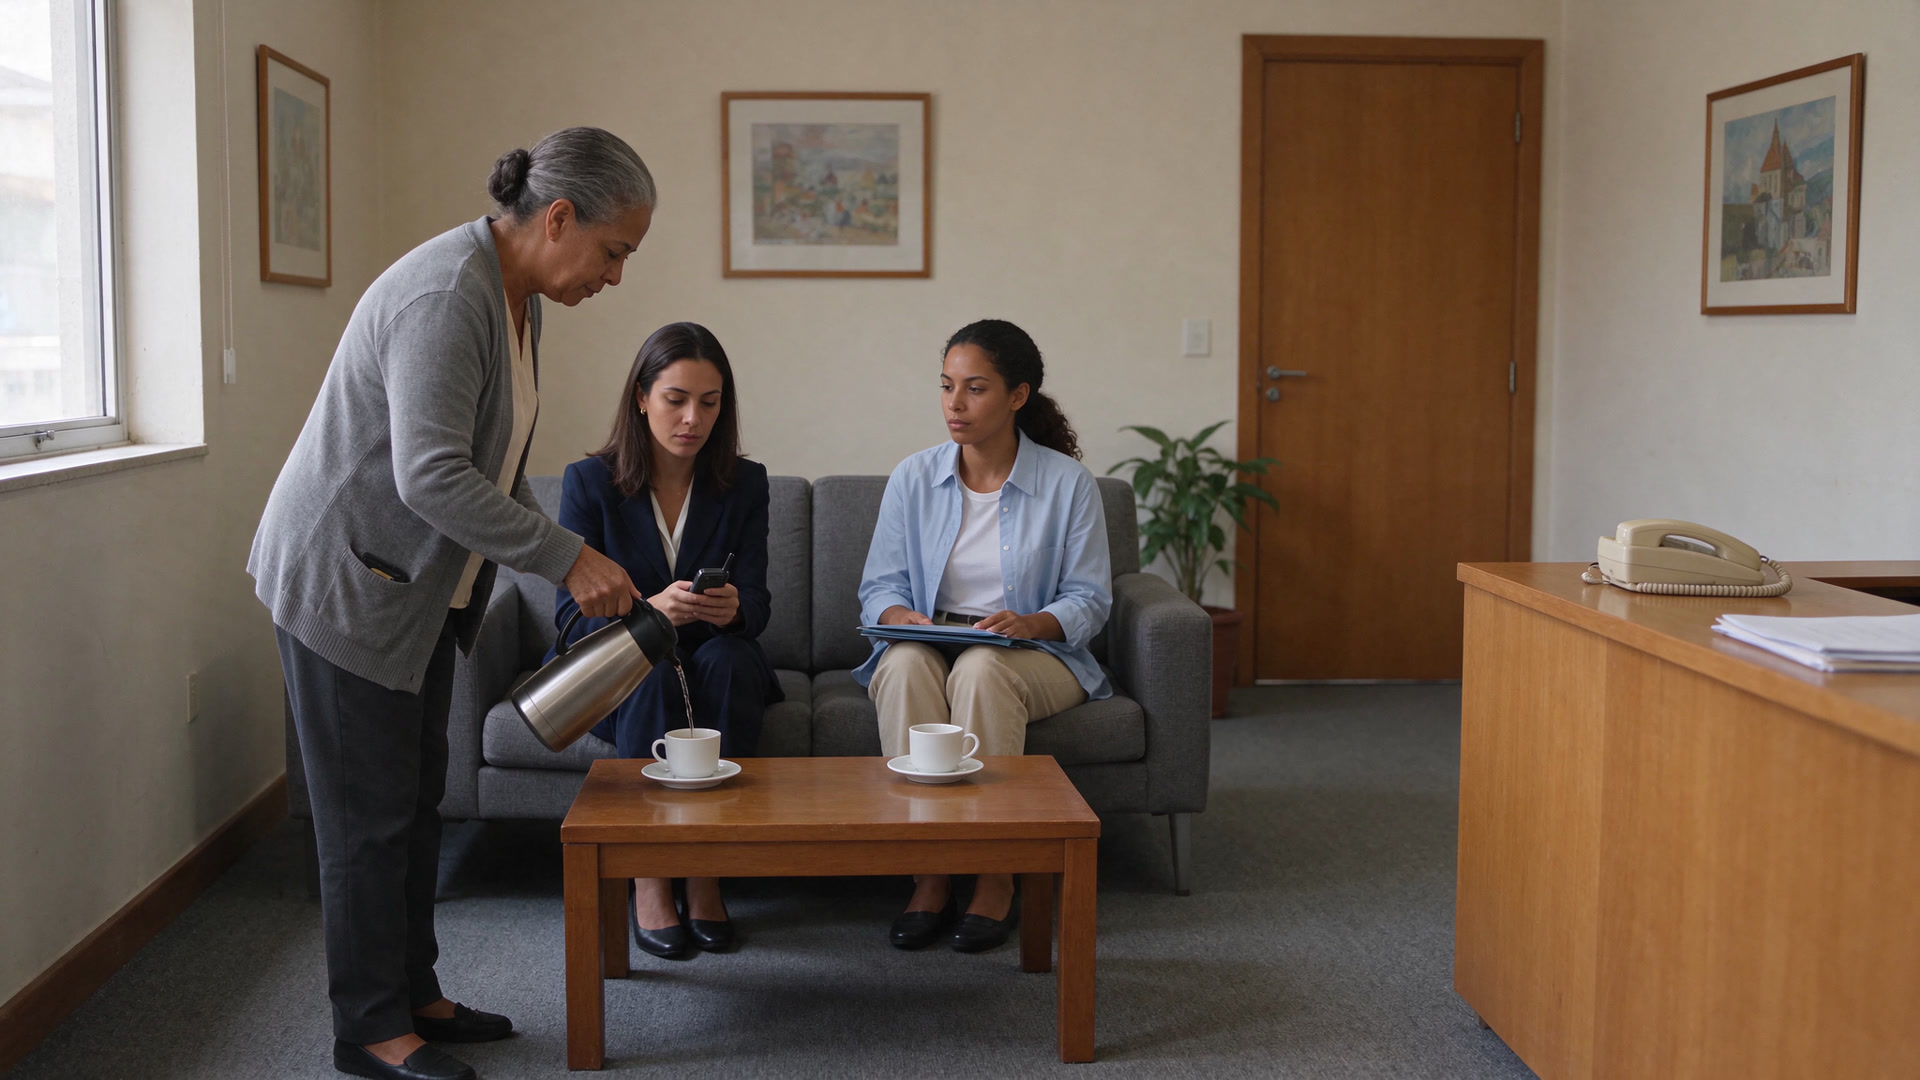
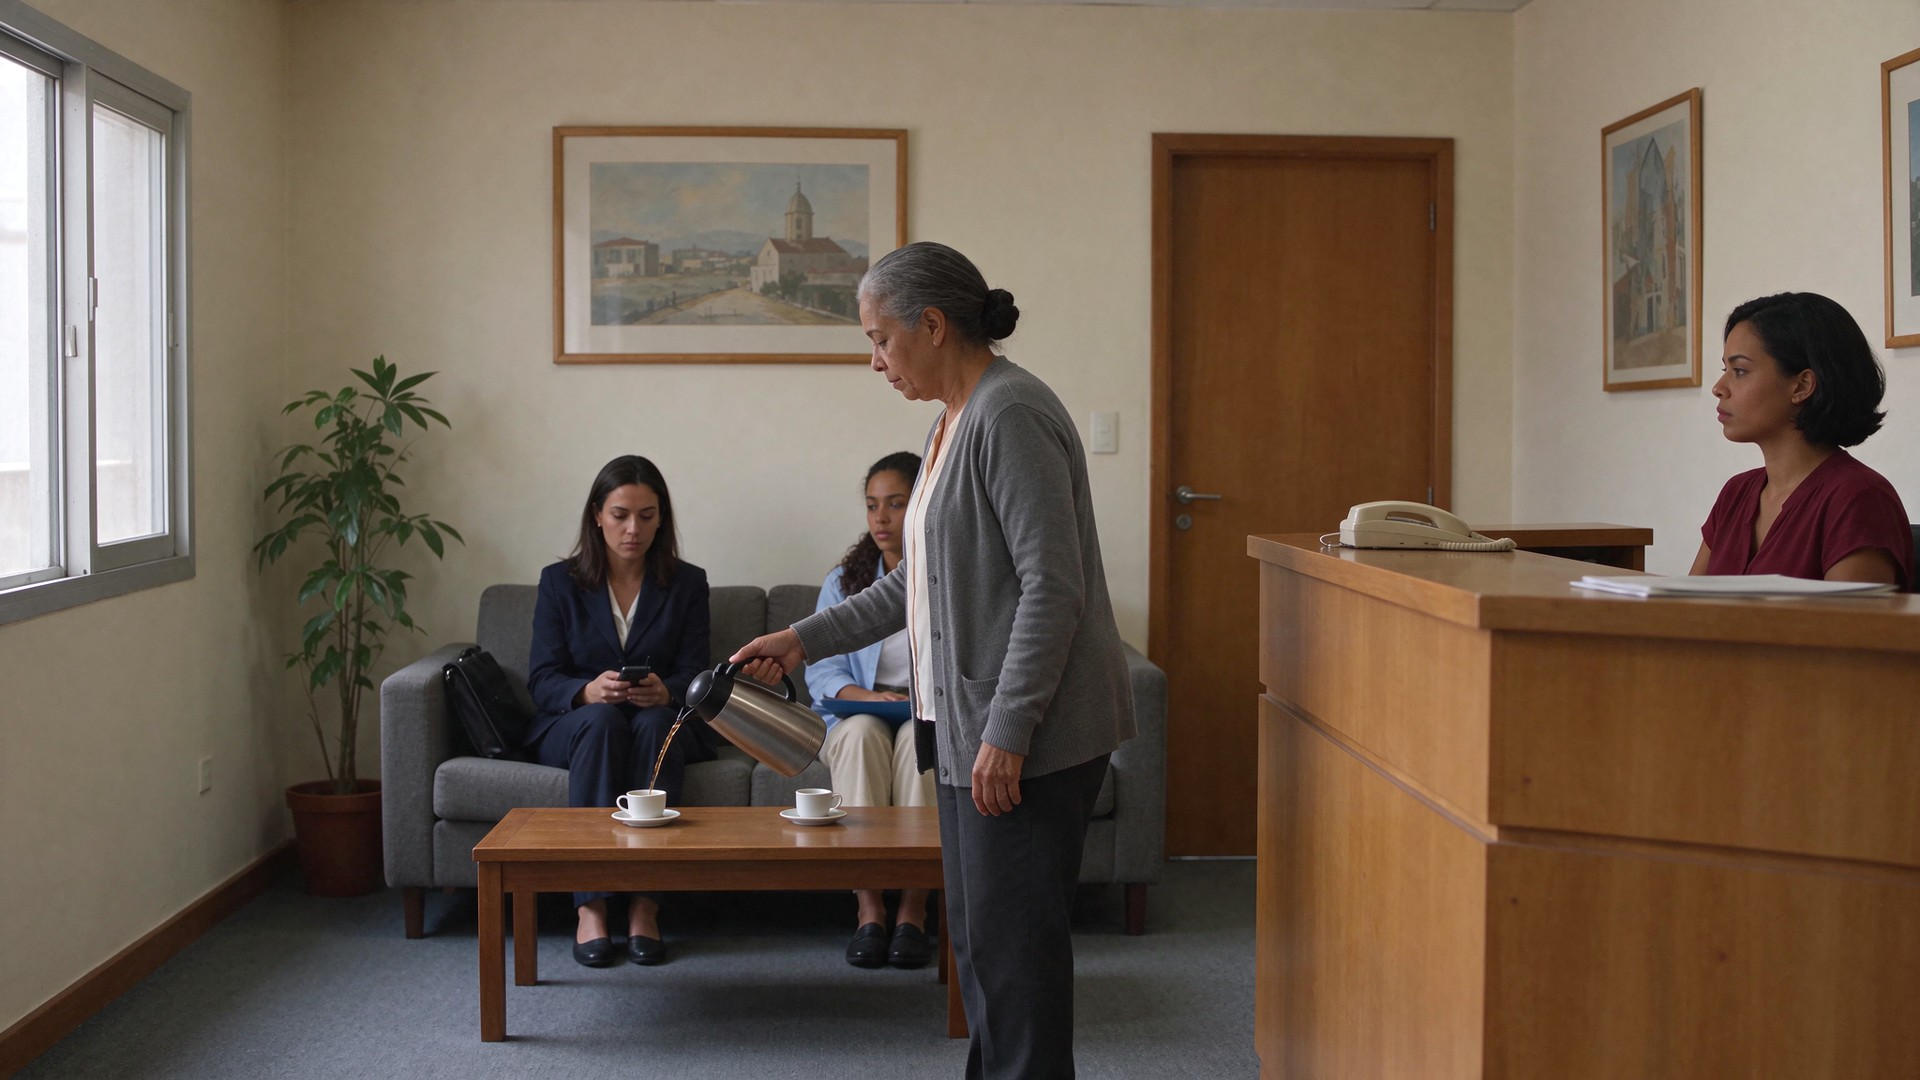
ep004: redo frames p03, p05, p07, p08, p09 by editing from a master wide shot
Master (edit of p01) fixes Helena at her plan mark; p03 Helena now right of
Paula; p05 Helena one step from Ana and Paula seated; p07 Helena in the
background, blurred; p08 full 16:9 without window or empty sofa; p09 Paula on
the left seat with the sofa extending right. Storyboard sheet and script
status updated.

Claude-Session: https://claude.ai/code/session_01CYEraXnXXqCbwtdQhfANh9

diff --git a/novelinhas/ep004-senhora-do-cafe/roteiro.md b/novelinhas/ep004-senhora-do-cafe/roteiro.md
@@ -77,13 +77,15 @@ Gerado no Seedream 5.5 com as referências fixas (`refs/ref_helena.jpg`, `ref_pa
 |---|---|
 | p01 | ✅ posições, objetos (2 xícaras, garrafa, pastas, telefone), figurinos, expressões contidas. A Helena aparece junto à janela (a porta de entrada fica fora do quadro, à esquerda) |
 | p02 | ✅ uma só Helena, de costas, com a garrafa; Paula com o celular; Ana com a pasta; 2 xícaras |
-| p03 | ⚠ **NÃO perfeito:** uma só Helena servindo a xícara da Paula ✅, mas ela está à **ESQUERDA** das candidatas — quebra a direção de tela (180°) em relação ao p02, onde ela está à direita |
+| p03 | ✅ (refeito por edição do master) uma só Helena, à **DIREITA** da Paula, garrafa na mão direita, servindo a xícara da Paula; a da Ana vazia; Paula no celular; Joice no balcão |
 | p04 | ✅ Ana em pé com a pasta azul, Paula sentada com o celular, Helena na borda direita com a garrafa |
-| p05 | ⚠ **NÃO perfeito:** Ana de costas com a pasta ✅, mas a Helena está a ~2 m (mesinha entre as duas, não "a um passo") e o **assento da Paula aparece vazio** (a Paula some do sofá) |
+| p05 | ✅ (refeito por edição do master) Ana de costas à esquerda com a pasta azul; Helena **a um passo** dela, à direita, olhando a pasta, com a garrafa; **Paula sentada no lugar dela** ao fundo, com o celular |
 | p06 | ✅ Joice com o fone do telefone de fio, só ela e a parede |
-| p07 | ✅ Paula e Ana no sofá, Helena na borda direita com a garrafa (nítida, não desfocada) |
-| p08 | ✅ Helena põe a garrafa no balcão, Joice atrás, crachá invisível. Recortado 12% à esquerda para tirar a janela que não deveria aparecer nesse ângulo |
-| p09 | ⚠ **NÃO perfeito:** close da Paula sentada no sofá com o celular no colo ✅, mas o sofá se estende para a **esquerda** da tela (como se ela estivesse no assento direito, que é o da Ana) |
+| p07 | ✅ (refeito por edição do master) Paula e Ana no sofá; xícara da Paula com café, a da Ana vazia; Helena **ao fundo, desfocada**, com a garrafa (desfoque aplicado na pós, que também apagou um broche que poderia parecer o crachá). Obs.: ela está mais ao fundo (perto da porta da diretoria) do que a marca da planta |
+| p08 | ✅ (refeito por edição; **sem recorte**, 16:9 inteiro) Helena põe a garrafa no balcão, Joice atrás olhando para ela, crachá invisível; janela e sofá fora do quadro |
+| p09 | ✅ (refeito por edição do p07) Paula no assento **esquerdo**: braço do sofá e pasta preta à esquerda da tela, sofá seguindo para a direita; celular no colo, olhar para baixo; Ana se levantando na borda direita, desfocada (desfoque na pós) |
 | p10 | ✅ Helena ao lado da porta aberta, crachá branco sem texto no peito, mãos vazias; Ana entrando, de costas |
+
+**Refação (método de edição, teto US$ 0,40):** `storyboard/master.jpg` é o plano mestre aberto (edição do p01 com a Helena na marca dos planos 2/3/5/7, à direita da mesinha). Os quadros p03, p05, p07 e p08 foram gerados por **edição a partir do master** + refs (Seedream 5.5 com o master como imagem 1); o p09 saiu da edição do p07 e o p08 final é uma edição do próprio p08 (só o fundo esquerdo). Custo registrado em `gasto_refacao.json`.
 
 Descartados (não versionados): ref da Helena com caneca de viagem; p02 com **duas Helenas**; p03 com duas Helenas e servindo a xícara errada; vários quadros com o **sofá vazio** ao fundo; p09 espelhado (janela e Ana trocavam de lado).
